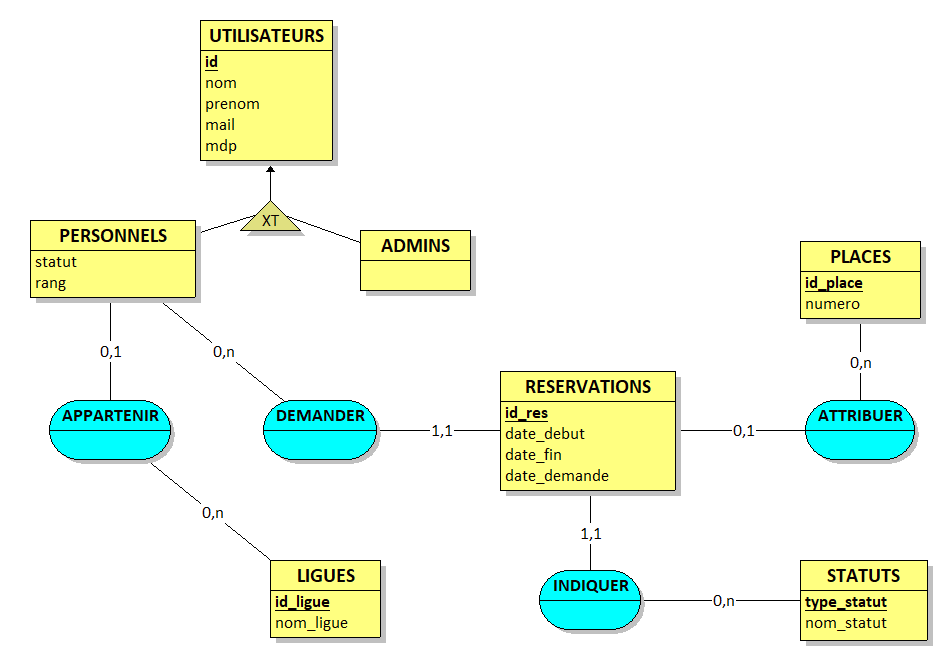
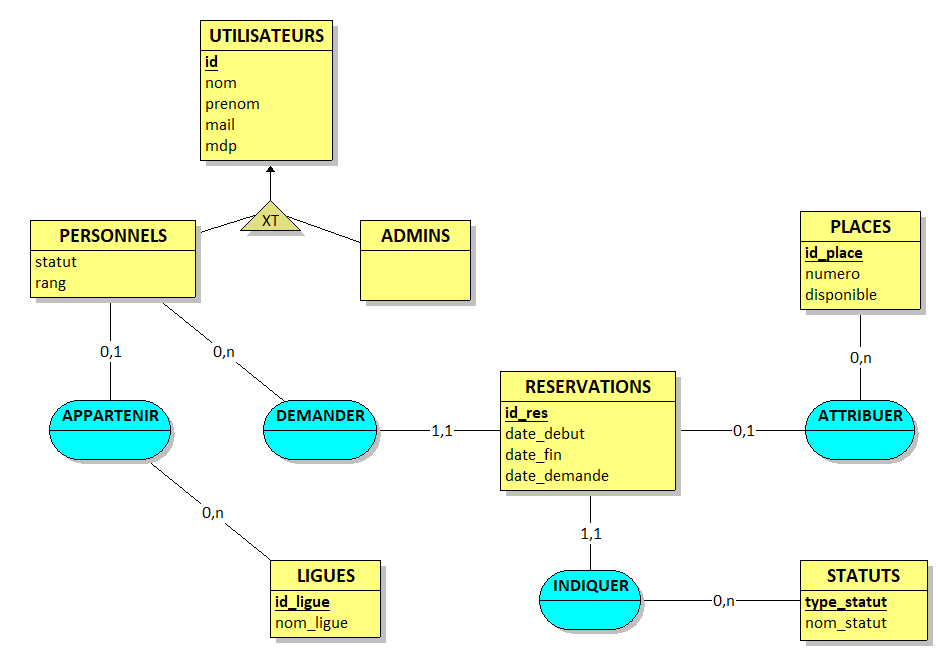
DB: Add a disponible place field

Changed region(s): [[0.8348, 0.3072, 0.9893, 0.5837], [0.371, 0.4301, 0.5256, 0.4916], [0.371, 0.3379, 0.5256, 0.3994]]

diff --git a/src/database/migrations/2020_02_24_144237_create_places_table.php b/src/database/migrations/2020_02_24_144237_create_places_table.php
@@ -16,6 +16,7 @@ class CreatePlacesTable extends Migration
         Schema::create('places', function (Blueprint $table) {
             $table->integerIncrements('id');
             $table->char('numero', 5)->unique();
+            $table->boolean('disponible');
             $table->softDeletes(); // avoid to remove places as long as users will have history
             // $table->timestamps();
         });

diff --git a/src/app/Models/Place.php b/src/app/Models/Place.php
@@ -32,6 +32,8 @@ class Place extends Model
     {
         $space = new Place;
         $space->numero = $label;
+        $space->disponible = true;
+
         if (!$space->save())
             return null;
         return $space;
